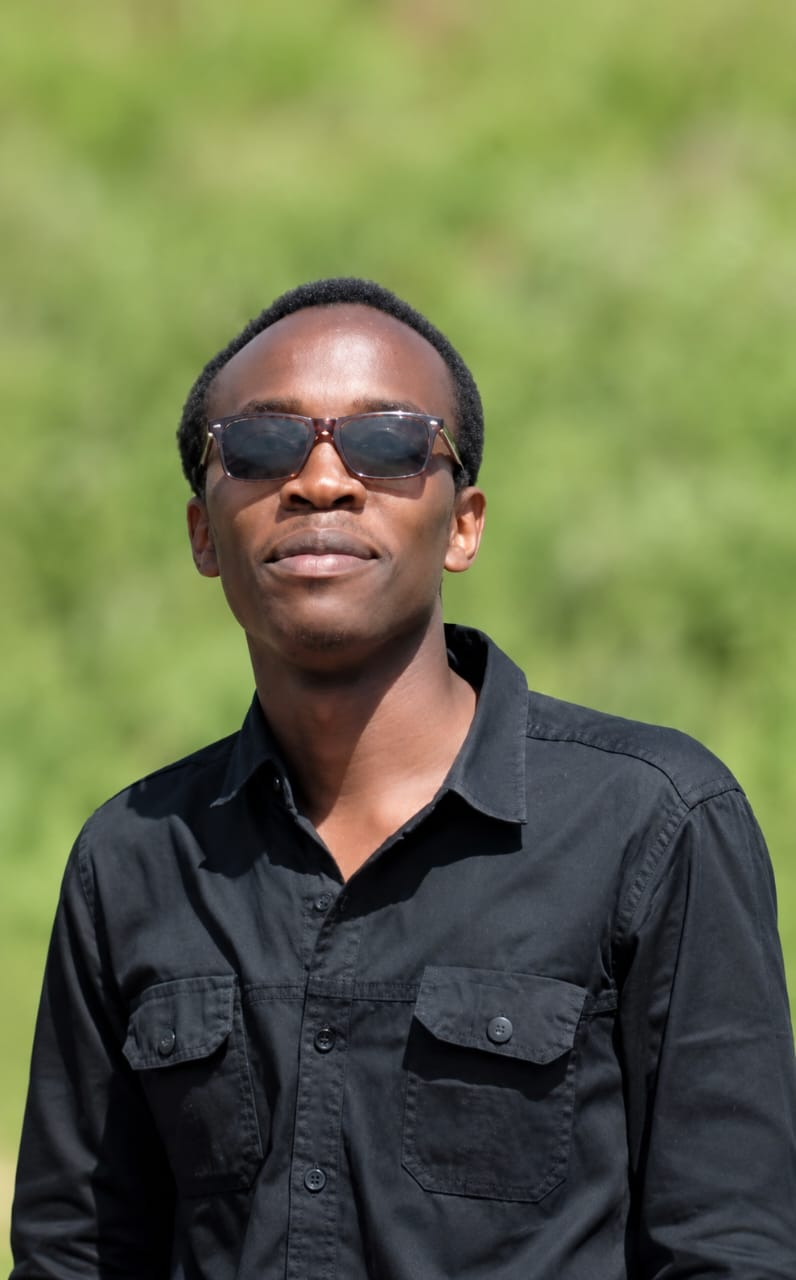
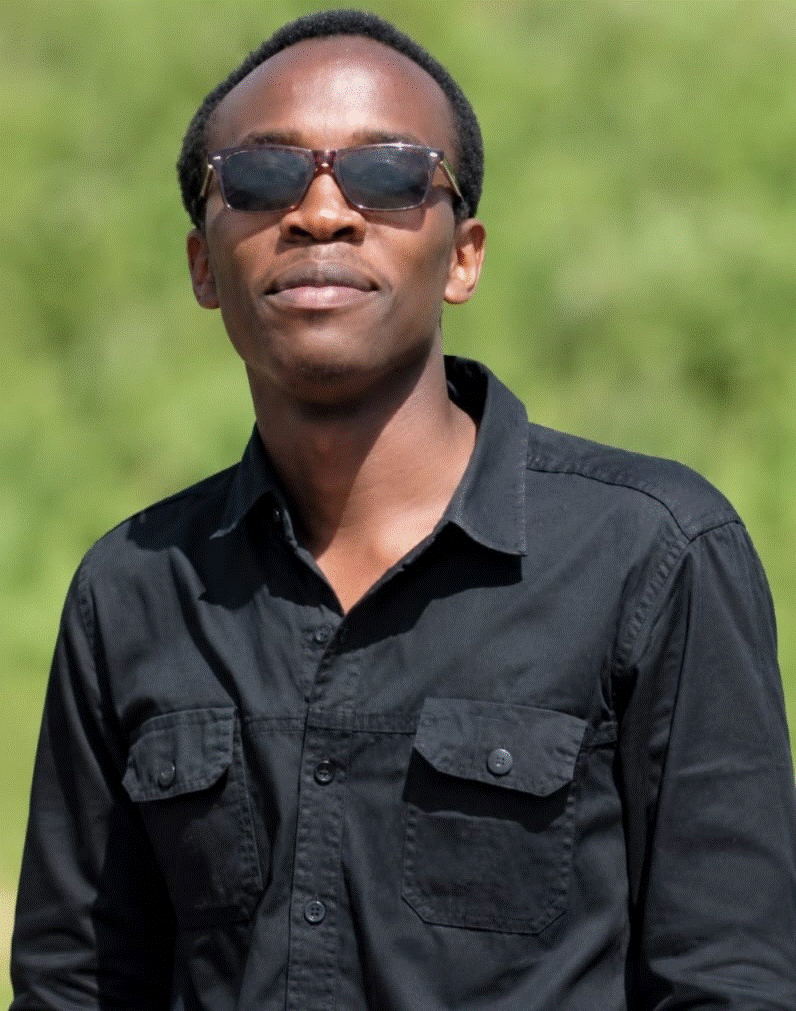
Update Innocent Picture

diff --git a/about.html b/about.html
@@ -303,7 +303,7 @@ footer{background:var(--navy);padding:3rem 2rem;text-align:center;border-top:1px
     <p>We officially launch on <strong>1st June 2026</strong> — and this is only the beginning.</p>
   </div>
   <div class="story-visual">
-    <img src="images/logo.jpeg" class="story-logo" alt="Young Africans Network Logo">
+    <img src="images/logo.jpeg" class="story-logo" alt="logo">
     <p class="story-quote">"To empower African youth through education, skills development, mentorship, and access to opportunities that enable them to <span>actively build the future together.</span>"</p>
   </div>
 </div>